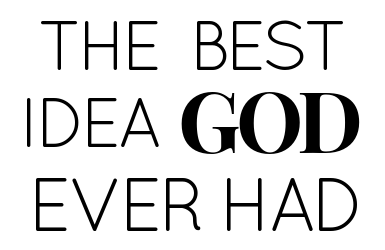
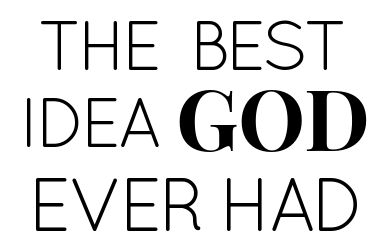
Added a hover effect to the "best idea" link.

Changed region(s): [[0.4675, 0.336, 0.9662, 0.616]]

diff --git a/home/templates/home.html b/home/templates/home.html
@@ -40,7 +40,7 @@
             <span>what's coming</span>
         </a>
         <a class="column" href="/static/media/The best idea God ever had.pdf" target="_blank">
-            <img style="border: 0 !important" src="/static/images/best-idea-link.png" alt="The best idea God ever had"/>
+            <div onclick="" class="best-idea"></div>
         </a>
         <a class="column" href="/book">
             <div onclick="" class="hover">

diff --git a/assets/style.css b/assets/style.css
@@ -297,6 +297,17 @@ img.header {
     padding: 0;
 }
 
+.best-idea {
+    background: url('/static/images/best-idea-link.png');
+    width: 385px;
+    height: 250px;
+    box-shadow: 0 10px 30px rgba(0,0,0,0.3);
+}
+
+.best-idea:hover {
+    background: url('/static/images/best-idea-link-hover.png');
+}
+
 .about .title {
     display: block;
     font-family: "Amatic SC", cursive;
